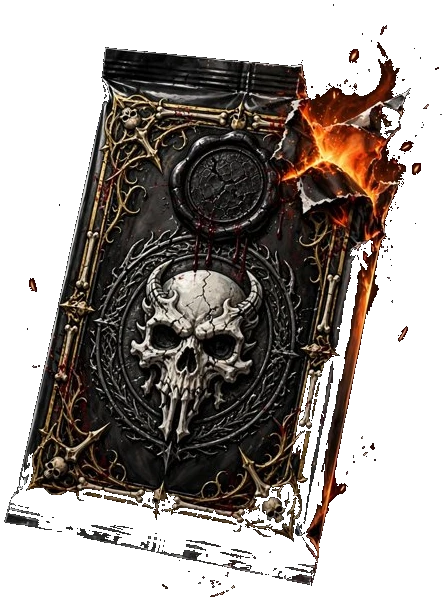
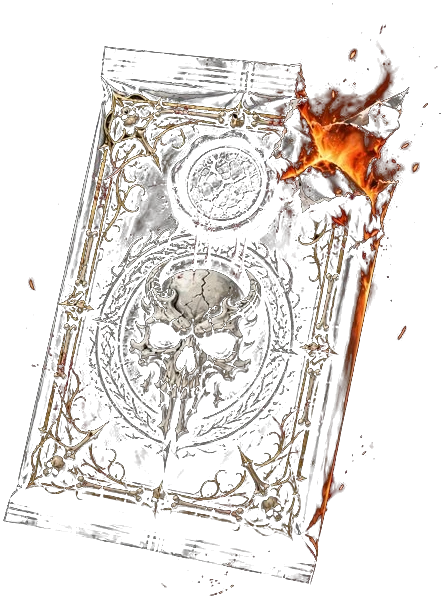
v9.3: pack re-keyed with soft halo fade — glow melts into the background instead of an opaque dark ring

diff --git a/DEVLOG.md b/DEVLOG.md
@@ -315,3 +315,9 @@ v9.2: the title-screen pack still showed a black slab — box-shadow paints
 the element's rectangle, not the art's silhouette. On keyed art the
 shadow must be filter: drop-shadow, which follows the alpha shape.
 Applied to the title pack and the ritual modal's sealed pack.
+v9.3: still a slab — the real culprit was in the IMAGE: the photo's glow
+halo (dark pixels just above the keying threshold) survived as an opaque
+dark ring hugging the pack; invisible on the dark button, obvious on the
+title's mottled backdrop. Re-keyed with a soft alpha ramp: anything
+edge-connected and dark fades out by darkness (0 at near-black, full at
+the trim line), so the glow now melts into whatever is behind it.
